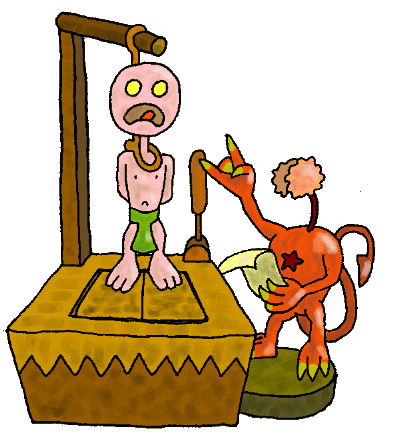
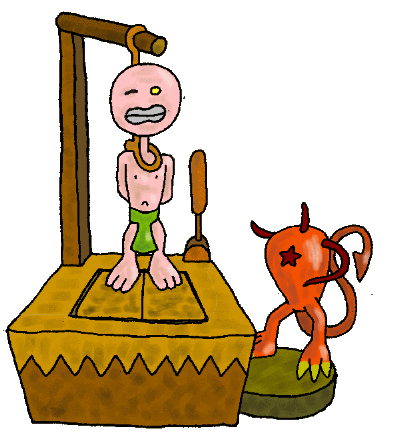
feat (estilizacion): se crea funcion para integrar las 9 imagenes segun el nivel de dificultad

Changed region(s): [[0.48, 0.2982, 0.96, 0.8945], [0.27, 0.1193, 0.48, 0.328]]

diff --git a/frontend/game.js b/frontend/game.js
@@ -451,7 +451,7 @@ function resetearUIJuego() {
     // En su lugar, vacía el contenido del span interno:
     inputLetrasOut.textContent = ""; // Esto vaciará solo las letras, dejando "Letras incorrectas: " intacto.
     
-    imagenAhorcado.src = "img/ahorcadito_1.png";
+    imagenAhorcado.src = "img/ahorcadito_${escena}.png";
     ocultarMensajeAlerta(mensajeJuego);
     inputIngresaLetra.value = "";
     inputIngresaLetra.disabled = false;
@@ -531,6 +531,16 @@ async function iniciarJuego(modo, palabraVersus = "") {
     }
 }
 
+function getEscenaAhorcado(intentosRestantes, maxIntentos, juegoTerminado, palabraAdivinada) {
+  if (juegoTerminado && palabraAdivinada) return 0; // Imagen de victoria
+  if (juegoTerminado && intentosRestantes <= 0) return 9; // Imagen de derrota final
+
+  const errores = maxIntentos - intentosRestantes;
+  const escena = Math.min(errores + 1, 8); // Imagen 1 → 8 durante juego
+  return escena;
+}
+
+
 
 
 function actualizarUIJuego(data) {
@@ -564,45 +574,59 @@ function actualizarUIJuego(data) {
     console.log("     cantidad de erradas:", cantidadErradasCalculada);
 
     if (data.juegoTerminado) {
-        finalizandoJuego = true;
-        ocultarSeccion(botonSubirLetra);
-        ocultarSeccion(inputIngresaLetra);
-        ocultarMensajeAlerta(mensajeTurno); // Ocultar mensaje de turno al terminar el juego
+  finalizandoJuego = true;
+  ocultarSeccion(botonSubirLetra);
+  ocultarSeccion(inputIngresaLetra);
+  ocultarMensajeAlerta(mensajeTurno); // Ocultar mensaje de turno al terminar el juego
 
-        if (data.palabra === data.palabraSecreta) {
-            mostrarMensajeAlerta(mensajeJuego, `¡Felicidades! Has adivinado la palabra: ${data.palabraSecreta}`, 'success');
-            imagenAhorcado.classList.remove("final-victoria", "final-derrota", "ahorcado-animado", "ahorcado-resplandor");
-            void imagenAhorcado.offsetWidth; // Reinicia la animación
-  
-            imagenAhorcado.src = `img/ahorcadito_0.png`; // Imagen de éxito
-            imagenAhorcado.classList.add("final-victoria");
-        } else if (data.intentosRestantes <= 0) {
-            mostrarMensajeAlerta(mensajeJuego, `¡GAME OVER! La palabra era: ${data.palabraSecreta}`, 'danger');
-            imagenAhorcado.src = `img/ahorcadito_7.png`; // Imagen de derrota
-            imagenAhorcado.classList.add("final-derrota");
-        } else if (data.message && data.message !== "") {
-            mostrarMensajeAlerta(mensajeJuego, data.message, 'danger'); // Usamos danger para finalización inesperada
-            imagenAhorcado.src = `img/ahorcadito_7.png`; 
-            imagenAhorcado.classList.add("final-derrota");
-        } else {
-            mostrarMensajeAlerta(mensajeJuego, "El juego ha terminado.", 'info'); // Mensaje por defecto
-            imagenAhorcado.src = `img/ahorcadito_7.png`;
-            imagenAhorcado.classList.add("final-derrota");
-        }
-        
-        mostrarSeccion(botonReiniciar);
-        mostrarSeccion(botonVolverAlMenu); 
-        console.log("     Juego Terminado detectado. Mensaje establecido en UI:", mensajeJuego.textContent);
+  const palabraAdivinada = data.palabra === data.palabraSecreta;
+  const escena = getEscenaAhorcado(
+    data.intentosRestantes,
+    data.maxIntentos || 8,
+    data.juegoTerminado,
+    palabraAdivinada
+  );
 
-    } else {
+  if (palabraAdivinada) {
+    mostrarMensajeAlerta(mensajeJuego, `¡Felicidades! Has adivinado la palabra: ${data.palabraSecreta}`, 'success');
+    imagenAhorcado.classList.remove("final-victoria", "final-derrota", "ahorcado-animado", "ahorcado-resplandor");
+    void imagenAhorcado.offsetWidth;
+    imagenAhorcado.src = `img/ahorcadito_${escena}.png`;
+    imagenAhorcado.classList.add("final-victoria");
+  } else if (data.intentosRestantes <= 0) {
+    mostrarMensajeAlerta(mensajeJuego, `¡GAME OVER! La palabra era: ${data.palabraSecreta}`, 'danger');
+    imagenAhorcado.src = `img/ahorcadito_${escena}.png`;
+    imagenAhorcado.classList.add("final-derrota");
+  } else if (data.message && data.message !== "") {
+    mostrarMensajeAlerta(mensajeJuego, data.message, 'danger');
+    imagenAhorcado.src = `img/ahorcadito_${escena}.png`;
+    imagenAhorcado.classList.add("final-derrota");
+  } else {
+    mostrarMensajeAlerta(mensajeJuego, "El juego ha terminado.", 'info');
+    imagenAhorcado.src = `img/ahorcadito_${escena}.png`;
+    imagenAhorcado.classList.add("final-derrota");
+  }
 
-        imagenAhorcado.src = `img/ahorcadito_${Math.min(cantidadErradasCalculada + 1, 7)}.png`;
+  mostrarSeccion(botonReiniciar);
+  mostrarSeccion(botonVolverAlMenu);
+  console.log("     Juego Terminado detectado. Mensaje establecido en UI:", mensajeJuego.textContent);
+}
 
-     
-        mostrarSeccion(inputIngresaLetra);
-        mostrarSeccion(botonSubirLetra);
-        ocultarSeccion(botonReiniciar);
-        mostrarSeccion(botonVolverAlMenu);
+   else {
+
+        const palabraAdivinada = false; // No hace falta chequearla si no terminó
+        const escena = getEscenaAhorcado(
+          data.intentosRestantes,
+          data.maxIntentos || 8,
+          data.juegoTerminado,
+          palabraAdivinada
+        );
+
+         imagenAhorcado.src = `img/ahorcadito_${escena}.png`;
+         mostrarSeccion(inputIngresaLetra);
+         mostrarSeccion(botonSubirLetra);
+         ocultarSeccion(botonReiniciar);
+         mostrarSeccion(botonVolverAlMenu);
 
         if (data.message && data.message !== "") {
   console.log("     Mostrando data.message:", data.message);
